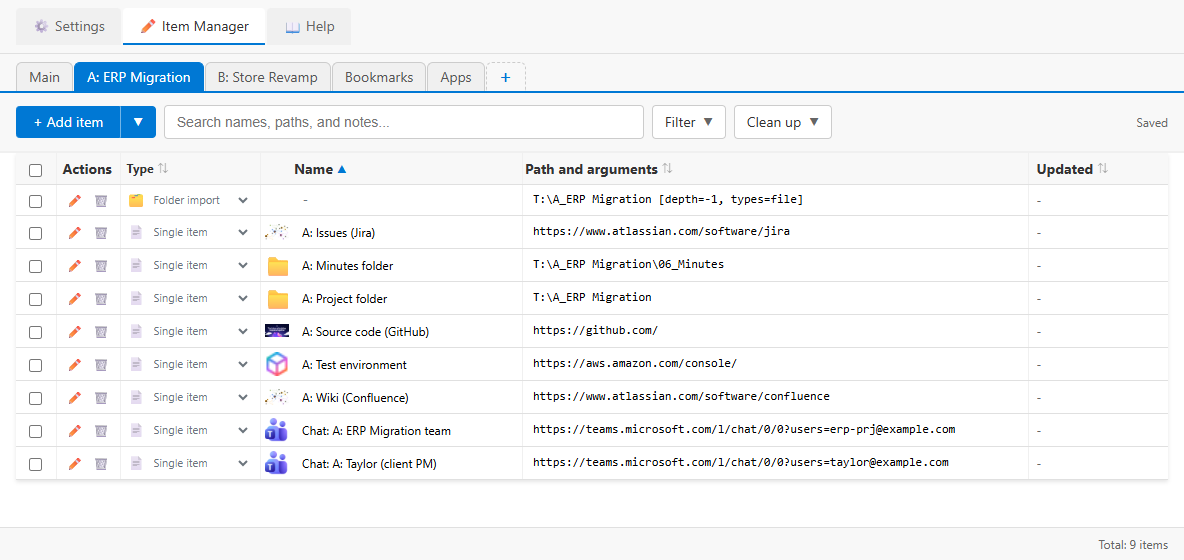
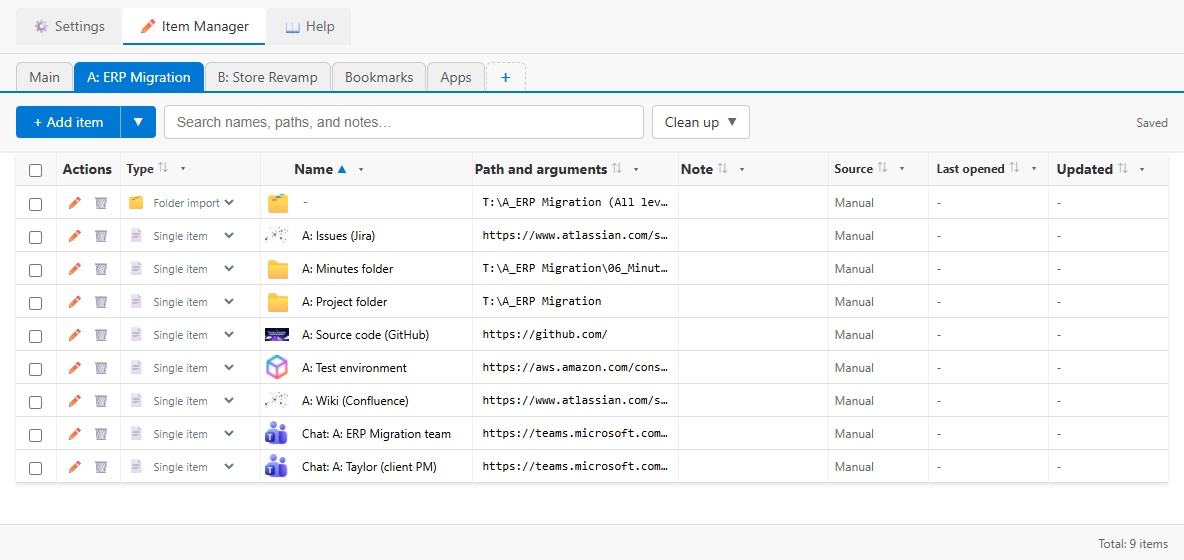
fix: アイテム管理の列の既定の幅を調整し、README と画面仕様書の画像を撮り直す（A3-134）
幅 1200px の管理ウィンドウで縦スクロールバーが出ても横にはみ出さないよう、パスと引数の最低幅を 180px、取込元の列を 100px にした。docs:readme-images（日英）と docs:screenshots の管理画面を撮り直した。

Claude-Session: https://claude.ai/code/session_01AoCshH3Tb8ERgEFZAGrXr7

diff --git a/src/renderer/utils/adminItemColumns.ts b/src/renderer/utils/adminItemColumns.ts
@@ -89,7 +89,7 @@ export const ADMIN_ITEM_COLUMNS: readonly AdminItemColumnDef[] = [
   {
     id: 'source',
     className: 'source-column',
-    defaultWidth: 90,
+    defaultWidth: 100,
     sortColumn: 'source',
     filterable: true,
     hideable: true,
@@ -188,7 +188,7 @@ export function columnWidthOf(
 /** 選択・操作の列の幅（px。CSS と同じ） */
 const FIXED_COLUMNS_WIDTH = 40 + 70;
 /** パスと引数の列に残す最低の幅（px）。足りなければ一覧を横にスクロールする */
-export const PATH_COLUMN_MIN_WIDTH = 220;
+export const PATH_COLUMN_MIN_WIDTH = 180;
 
 /** 一覧の表の最小幅（列が多くてもパスと引数の列が潰れないように） */
 export function tableMinWidthOf(widths: Array<number | null>): number {
